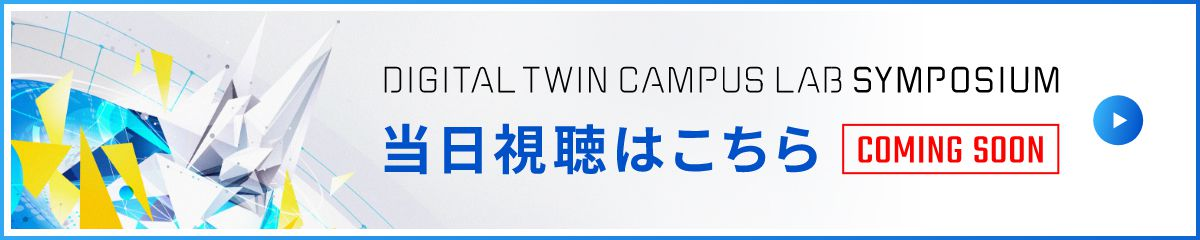
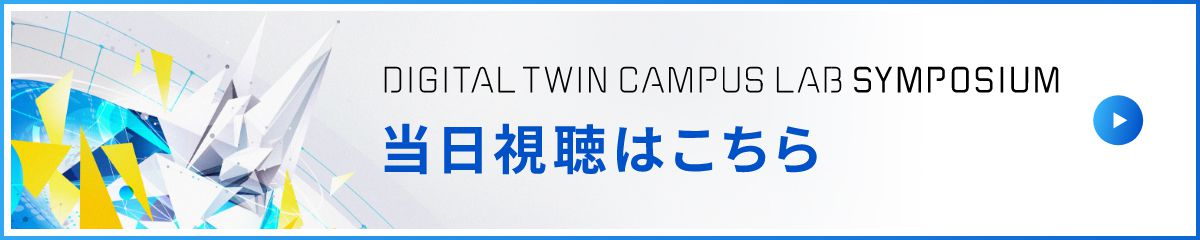
当日視聴ボタンURL反映・画像差し替え、先着1000名→3000名に変更

Changed region(s): [[0.6783, 0.4958, 0.8942, 0.7292]]

diff --git a/index.html b/index.html
@@ -80,7 +80,7 @@
           <a href="#contact" class="main_menu_item_link" ontouchstart="">CONTACT</a>
         </li>
       </ul>
-      <a href="#" class="nav_btn_watch comingsoon" ontouchstart=""><img src="assets/img/nav_btn_watch.svg" alt="当日視聴はこちら -COMING SOON-" width="155" height="50"></a>
+      <a href="https://us06web.zoom.us/j/84851511813" target="_blank" class="nav_btn_watch" ontouchstart=""><img src="assets/img/nav_btn_watch.svg?=20220922" alt="当日視聴はこちら -COMING SOON-" width="155" height="50"></a>
     </nav>
   </header>
 
@@ -96,16 +96,16 @@
 
     <section class="banner_area">
       <div class="section_inner banner_area_inner">
-        <a href="#" class="bn_watch comingsoon" ontouchstart="">
+        <a href="https://us06web.zoom.us/j/84851511813" target="_blank" class="bn_watch" ontouchstart="">
           <picture>
-            <source srcset="assets/img/btn_watch_sp.jpg" media="(max-width: 768px)" width="670" height="300" />
-            <img src="assets/img/btn_watch_pc.jpg" alt="DIGITAL TWIN CAMPUS LAB SYMPOSIUM 視聴はこちら｜COMING SOON" loading="lazy" width="1200" height="240">
+            <source srcset="assets/img/btn_watch_sp.jpg?=20220922" media="(max-width: 768px)" width="670" height="300" />
+            <img src="assets/img/btn_watch_pc.jpg?=20220922" alt="DIGITAL TWIN CAMPUS LAB SYMPOSIUM 視聴はこちら｜COMING SOON" loading="lazy" width="1200" height="240">
           </picture>
         </a>
       </div><!-- /section_inner --> 
     </section><!-- /banner_area -->
 
-    <a href="#" class="main_btn_watch comingsoon" ontouchstart=""><img src="assets/img/nav_btn_watch_sp.png" alt="当日視聴はこちら -COMING SOON-" width="750" height="160"></a>
+    <a href="https://us06web.zoom.us/j/84851511813" target="_blank" class="main_btn_watch" ontouchstart=""><img src="assets/img/nav_btn_watch_sp.png?=20220922" alt="当日視聴はこちら -COMING SOON-" width="750" height="160"></a>
 
     <section id="overview" class="overview">
       <div class="section_inner overview_inner">
@@ -122,7 +122,7 @@
         <h3 class="overview_stitle">日　時</h3>
         <div class="overview_date">
           2022年9月29日（木） <br class="forSp">午前9時30分 ～午後0時40分<br>
-          オンライン（先着1000名様）／参加無料
+          オンライン（先着3000名様）／参加無料
         </div>
         <h3 class="overview_stitle">登壇者</h3>
         <div class="overview_speaker_wrap">
